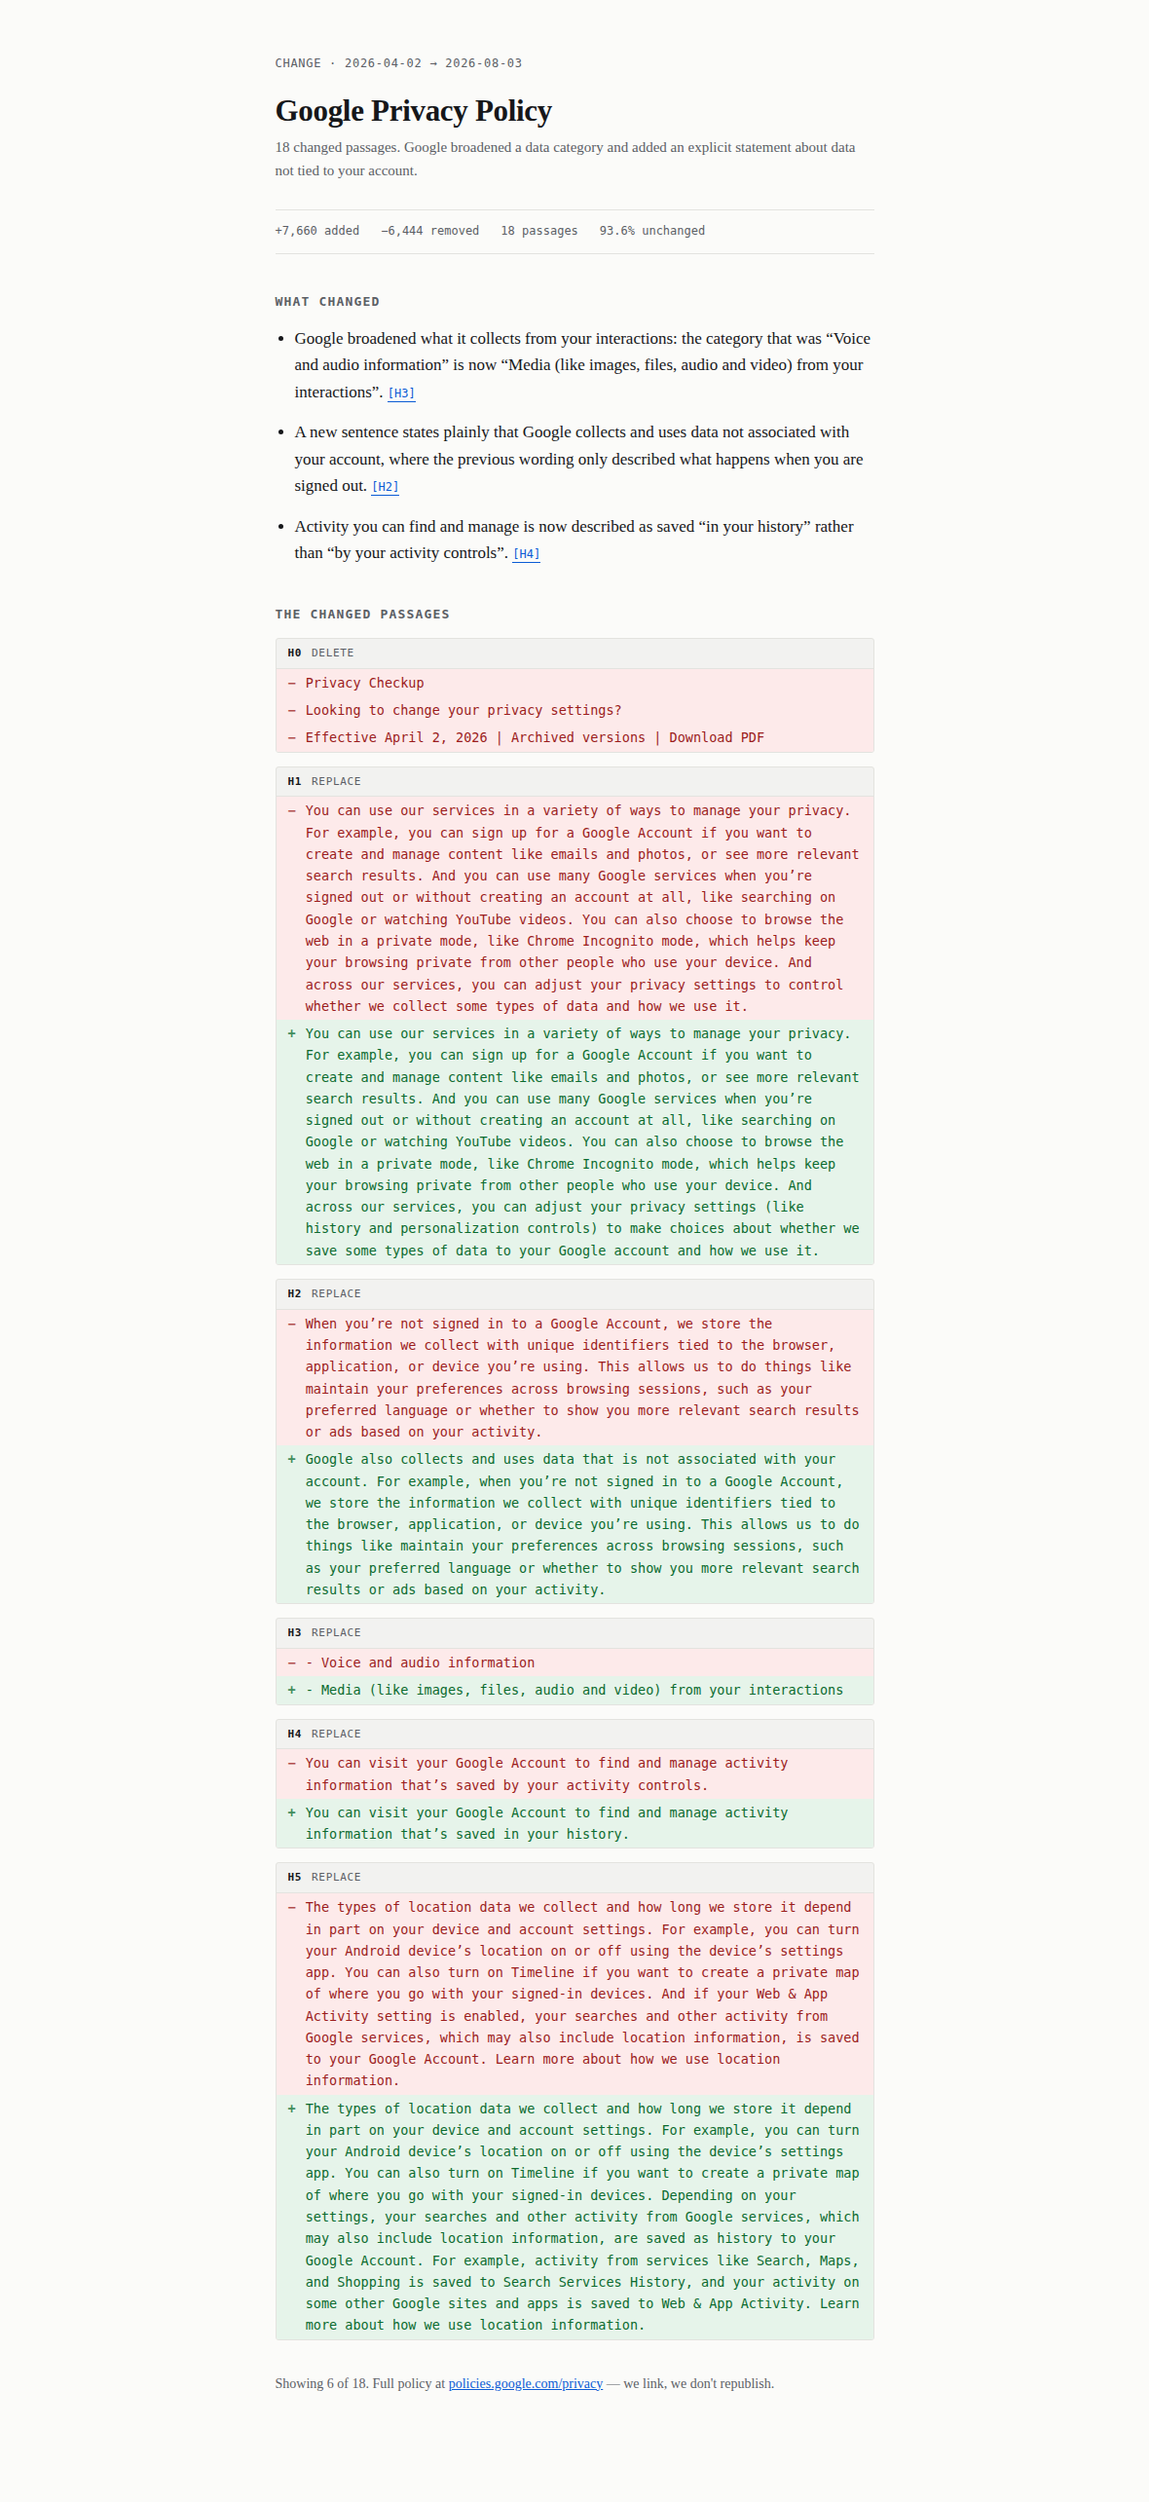
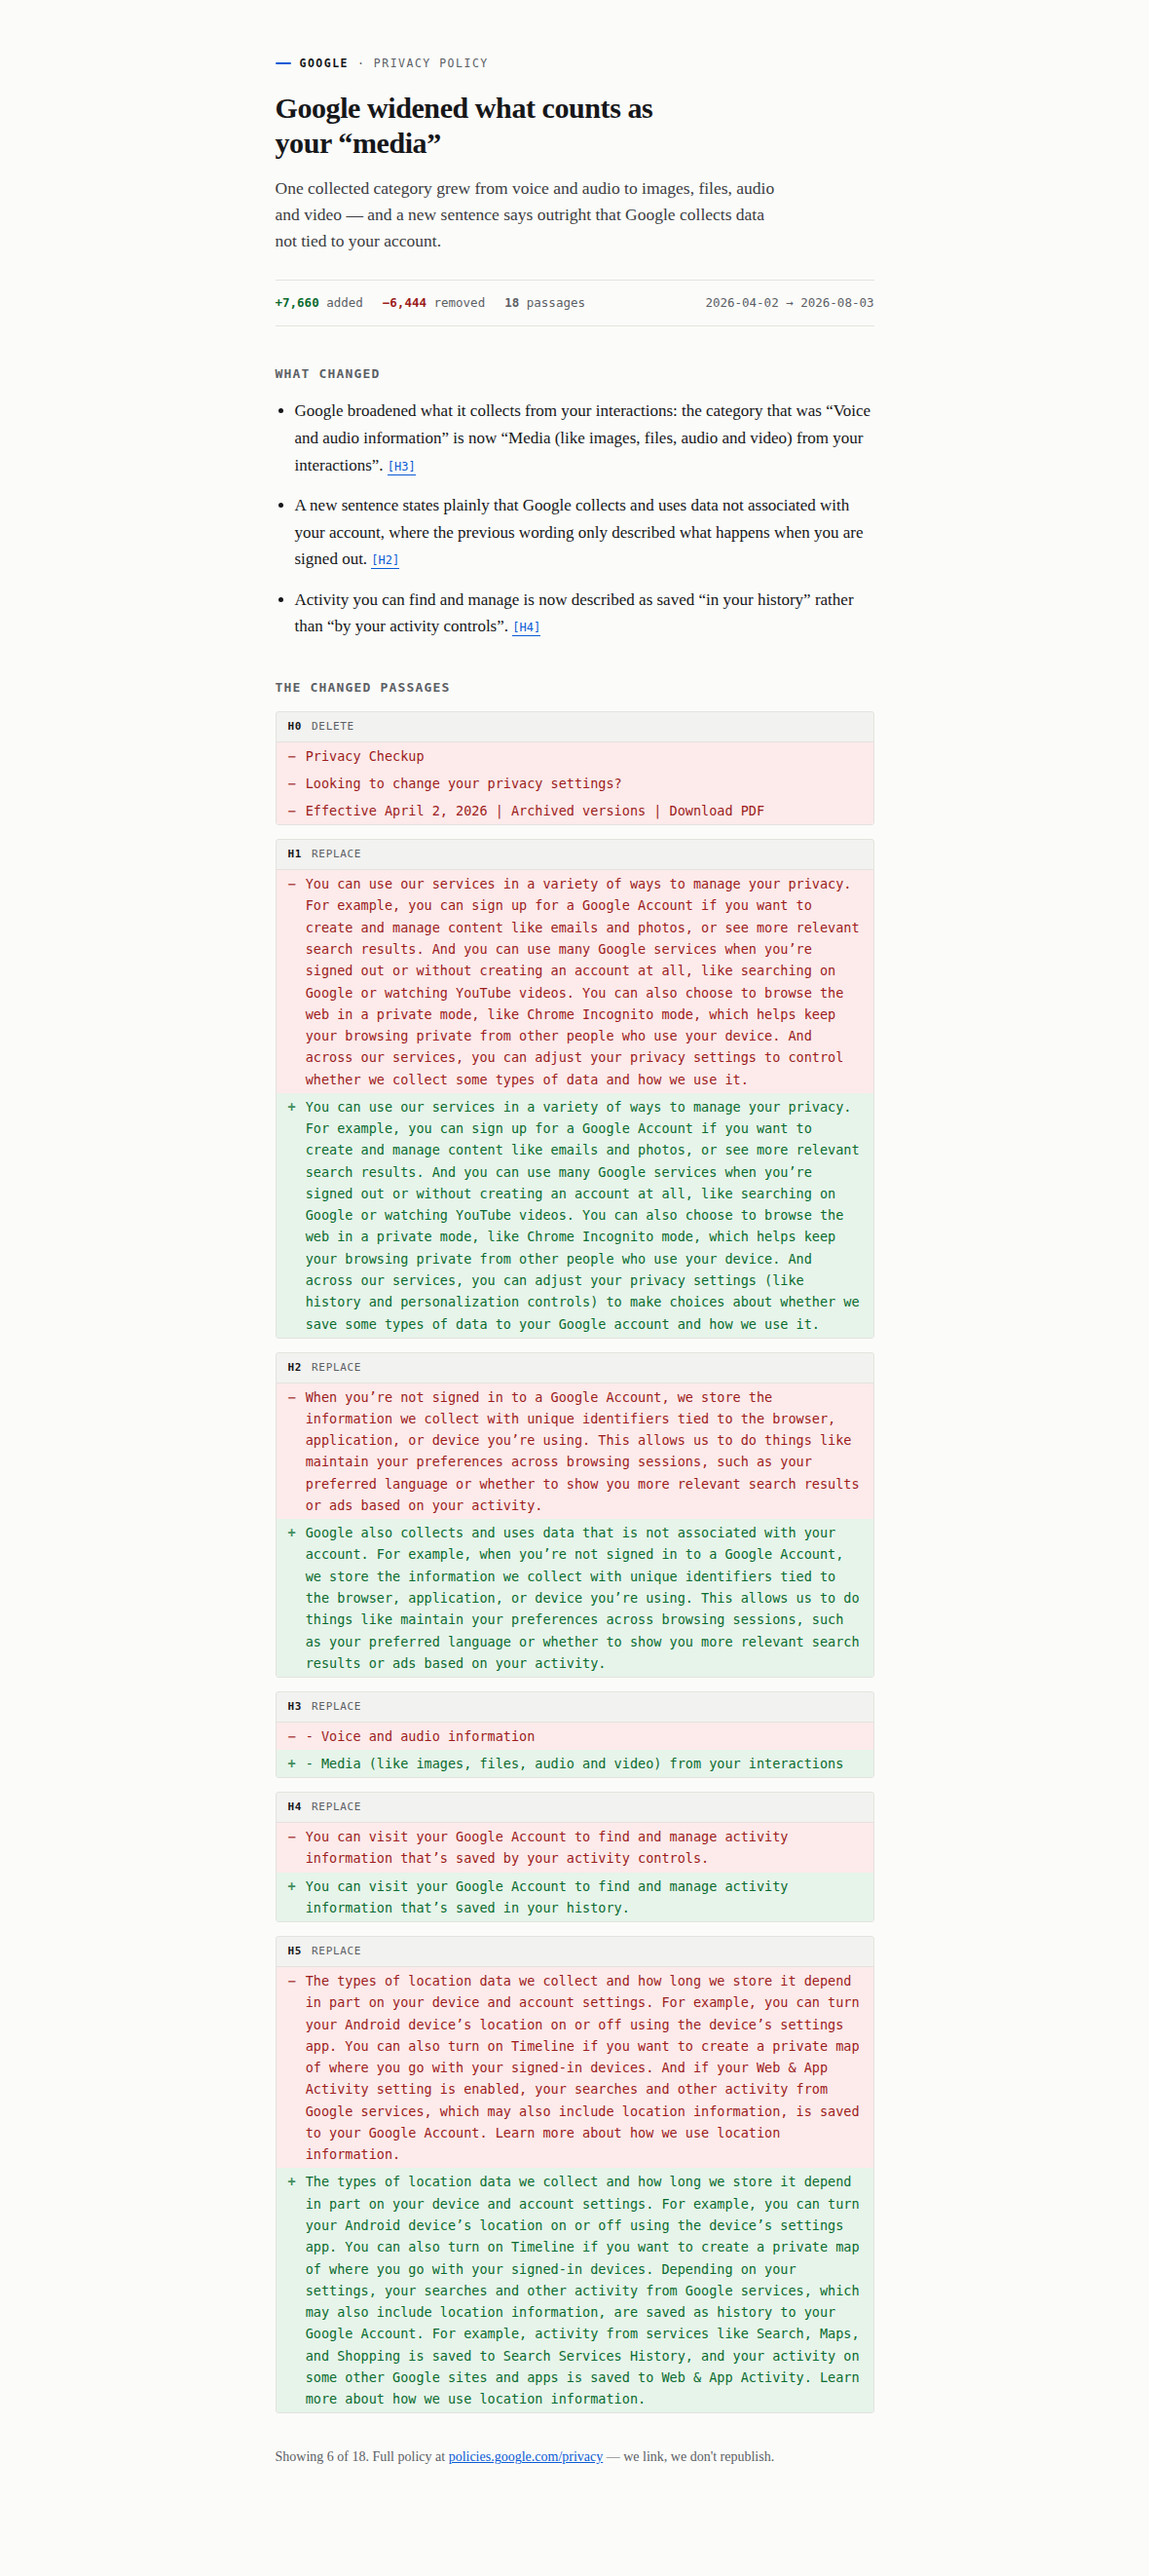
Choose direction A, lift its header toward editorial
Owner picked A - reference instrument - for its brevity and low noise, with
one note: the header felt sterile, and should move partway toward C's
editorial character. "If it were at a 1 or 2 right now make it a 3 or 4."

The body is unchanged. It is meant to be quiet; that is the whole point of
the direction. All the added life sits in the header:

- a claim-making headline in serif ("Google widened what counts as your
  media") in place of naming the document, which is the largest lever
  available and costs no visual noise at all
- an accent tick and the company set in ink against a muted document type
- a one-sentence lede at 17.5px in a softer ink rather than full muted
- colour-coded totals: added in green, removed in red, as requested, with
  the version span pushed to the right edge

The colour does not break A's governing rule that the accent belongs to
citations alone. Diff green and red are a separate semantic channel, so
using them for the totals reinforces the mapping between the header numbers
and the passages below rather than diluting the citation accent. Reusing the
citation blue for the stats is what would have broken it.

All four colours measured against both themes before use, since SPEC section
9 makes contrast a floor rather than a preference: added 6.42:1 light /
10.51:1 dark, removed 7.87 / 9.48, accent 5.78 / 7.85. Every one clears AA.

Also adds a 640px breakpoint - at narrow widths the headline drops to 25px
[…]

Changed region(s): [[0.2441, 0.0311, 0.7627, 0.9654]]

diff --git a/prototypes/a-docket.html b/prototypes/a-docket.html
@@ -9,24 +9,34 @@ body{margin:0}
 a{color:inherit}
 
 :root{
-  --paper:#fbfbf9; --ink:#16171a; --muted:#5c5f66; --rule:#e3e3df;
+  --paper:#fbfbf9; --ink:#16171a; --soft:#3b3d42; --muted:#5c5f66; --rule:#e3e3df;
   --accent:#0b5cd5; --add:#e6f4ea; --add-ink:#0b6b2f; --rm:#fdeaea; --rm-ink:#9b1c1c;
   --mono:ui-monospace,"SF Mono",Menlo,Consolas,monospace;
   --text:Charter,"Iowan Old Style","Source Serif 4",Georgia,serif;
 }
 @media (prefers-color-scheme:dark){:root{
-  --paper:#101114; --ink:#e9e9ea; --muted:#9a9da5; --rule:#26282e;
+  --paper:#101114; --ink:#e9e9ea; --soft:#c6c8cd; --muted:#9a9da5; --rule:#26282e;
   --accent:#6aa9ff; --add:#13301d; --add-ink:#7fd39b; --rm:#3a1618; --rm-ink:#f2a3a3;}}
 body{background:var(--paper);color:var(--ink);font-family:var(--text);
   font-size:17px;line-height:1.62;-webkit-font-smoothing:antialiased}
 .wrap{max-width:78ch;margin:0 auto;padding:56px 24px 96px}
-.crumb{font-family:var(--mono);font-size:12px;letter-spacing:.06em;
-  text-transform:uppercase;color:var(--muted);margin-bottom:20px}
-h1{font-size:31px;line-height:1.2;margin:0 0 6px;font-weight:600;letter-spacing:-.01em}
-.sub{color:var(--muted);font-size:15px;margin:0 0 28px}
-.meta{display:flex;gap:22px;flex-wrap:wrap;font-family:var(--mono);font-size:12px;
+
+/* header - the one place with a little more life */
+.kicker{display:flex;align-items:center;gap:9px;font-family:var(--mono);font-size:11.5px;
+  letter-spacing:.13em;text-transform:uppercase;color:var(--muted);margin-bottom:18px}
+.kicker .co{color:var(--ink);font-weight:700}
+.kicker .tick{width:16px;height:2px;background:var(--accent);border-radius:1px;flex:0 0 auto}
+h1{font-size:30px;line-height:1.22;margin:0 0 14px;font-weight:600;letter-spacing:-.014em;
+  max-width:26ch}
+.lede{color:var(--soft);font-size:17.5px;line-height:1.55;margin:0 0 26px;max-width:60ch}
+.meta{display:flex;gap:20px;flex-wrap:wrap;font-family:var(--mono);font-size:12.5px;
   color:var(--muted);border-top:1px solid var(--rule);border-bottom:1px solid var(--rule);
-  padding:12px 0;margin-bottom:34px}
+  padding:13px 0;margin-bottom:36px;align-items:baseline}
+.meta .n{font-weight:700}
+.meta .plus .n{color:var(--add-ink)}
+.meta .minus .n{color:var(--rm-ink)}
+.meta .span{margin-left:auto;color:var(--muted)}
+
 h2{font-size:13px;font-family:var(--mono);letter-spacing:.09em;text-transform:uppercase;
   color:var(--muted);font-weight:600;margin:38px 0 14px}
 ul.sum{margin:0;padding-left:20px}
@@ -50,19 +60,22 @@ ul.sum li{margin-bottom:14px}
 .tx{flex:1;min-width:0}
 .src{margin-top:34px;font-size:14px;color:var(--muted)}
 .src a{color:var(--accent)}
+@media (max-width:640px){h1{font-size:25px}.lede{font-size:16.5px}.meta .span{margin-left:0;width:100%}}
 @media (prefers-reduced-motion:reduce){*{animation:none!important;transition:none!important}}
 @media print{.hunk{break-inside:avoid}body{background:#fff;color:#000}}
 </style>
 </head><body><div class="wrap">
-<div class="crumb">Change · 2026-04-02 → 2026-08-03</div>
-<h1>Google Privacy Policy</h1>
-<p class="sub">18 changed passages. Google broadened a data category and added
-an explicit statement about data not tied to your account.</p>
+<div class="kicker"><span class="tick"></span><span class="co">Google</span>
+  <span>· Privacy Policy</span></div>
+<h1>Google widened what counts as your &ldquo;media&rdquo;</h1>
+<p class="lede">One collected category grew from voice and audio to images, files,
+audio and video &mdash; and a new sentence says outright that Google collects data
+not tied to your account.</p>
 <div class="meta">
-  <span>+7,660 added</span>
-  <span>−6,444 removed</span>
-  <span>18 passages</span>
-  <span>93.6% unchanged</span>
+  <span class="plus"><span class="n">+7,660</span> added</span>
+  <span class="minus"><span class="n">&minus;6,444</span> removed</span>
+  <span><span class="n">18</span> passages</span>
+  <span class="span">2026-04-02 &rarr; 2026-08-03</span>
 </div>
 <h2>What changed</h2>
 <ul class="sum"><li>Google broadened what it collects from your interactions: the category that was “Voice and audio information” is now “Media (like images, files, audio and video) from your interactions”. <a class="cit" href="#h3" title="Jump to the changed passage">[H3]</a></li>
@@ -83,5 +96,5 @@ an explicit statement about data not tied to your account.</p>
 <section class="hunk" id="h5"><div class="hh"><span class="hid">H5</span><span class="hkind">replace</span></div><div class="hb"><div class="ln rm"><span class="mk" aria-hidden="true">−</span><span class="sr">Removed:</span> <span class="tx">The types of location data we collect and how long we store it depend in part on your device and account settings. For example, you can turn your Android device’s location on or off using the device’s settings app. You can also turn on Timeline if you want to create a private map of where you go with your signed-in devices. And if your Web &amp; App Activity setting is enabled, your searches and other activity from Google services, which may also include location information, is saved to your Google Account. Learn more about how we use location information.</span></div>
 <div class="ln ad"><span class="mk" aria-hidden="true">+</span><span class="sr">Added:</span> <span class="tx">The types of location data we collect and how long we store it depend in part on your device and account settings. For example, you can turn your Android device’s location on or off using the device’s settings app. You can also turn on Timeline if you want to create a private map of where you go with your signed-in devices. Depending on your settings, your searches and other activity from Google services, which may also include location information, are saved as history to your Google Account. For example, activity from services like Search, Maps, and Shopping is saved to Search Services History, and your activity on some other Google sites and apps is saved to Web &amp; App Activity. Learn more about how we use location information.</span></div></div></section>
 <p class="src">Showing 6 of 18. Full policy at
-<a href="https://policies.google.com/privacy">policies.google.com/privacy</a> — we link, we don't republish.</p>
+<a href="https://policies.google.com/privacy">policies.google.com/privacy</a> &mdash; we link, we don't republish.</p>
 </div></body></html>

diff --git a/prototypes/build.py b/prototypes/build.py
@@ -120,24 +120,34 @@ def page(title: str, css: str, body: str) -> str:
 
 CSS_A = """
 :root{
-  --paper:#fbfbf9; --ink:#16171a; --muted:#5c5f66; --rule:#e3e3df;
+  --paper:#fbfbf9; --ink:#16171a; --soft:#3b3d42; --muted:#5c5f66; --rule:#e3e3df;
   --accent:#0b5cd5; --add:#e6f4ea; --add-ink:#0b6b2f; --rm:#fdeaea; --rm-ink:#9b1c1c;
   --mono:ui-monospace,"SF Mono",Menlo,Consolas,monospace;
   --text:Charter,"Iowan Old Style","Source Serif 4",Georgia,serif;
 }
 @media (prefers-color-scheme:dark){:root{
-  --paper:#101114; --ink:#e9e9ea; --muted:#9a9da5; --rule:#26282e;
+  --paper:#101114; --ink:#e9e9ea; --soft:#c6c8cd; --muted:#9a9da5; --rule:#26282e;
   --accent:#6aa9ff; --add:#13301d; --add-ink:#7fd39b; --rm:#3a1618; --rm-ink:#f2a3a3;}}
 body{background:var(--paper);color:var(--ink);font-family:var(--text);
   font-size:17px;line-height:1.62;-webkit-font-smoothing:antialiased}
 .wrap{max-width:78ch;margin:0 auto;padding:56px 24px 96px}
-.crumb{font-family:var(--mono);font-size:12px;letter-spacing:.06em;
-  text-transform:uppercase;color:var(--muted);margin-bottom:20px}
-h1{font-size:31px;line-height:1.2;margin:0 0 6px;font-weight:600;letter-spacing:-.01em}
-.sub{color:var(--muted);font-size:15px;margin:0 0 28px}
-.meta{display:flex;gap:22px;flex-wrap:wrap;font-family:var(--mono);font-size:12px;
+
+/* header - the one place with a little more life */
+.kicker{display:flex;align-items:center;gap:9px;font-family:var(--mono);font-size:11.5px;
+  letter-spacing:.13em;text-transform:uppercase;color:var(--muted);margin-bottom:18px}
+.kicker .co{color:var(--ink);font-weight:700}
+.kicker .tick{width:16px;height:2px;background:var(--accent);border-radius:1px;flex:0 0 auto}
+h1{font-size:30px;line-height:1.22;margin:0 0 14px;font-weight:600;letter-spacing:-.014em;
+  max-width:26ch}
+.lede{color:var(--soft);font-size:17.5px;line-height:1.55;margin:0 0 26px;max-width:60ch}
+.meta{display:flex;gap:20px;flex-wrap:wrap;font-family:var(--mono);font-size:12.5px;
   color:var(--muted);border-top:1px solid var(--rule);border-bottom:1px solid var(--rule);
-  padding:12px 0;margin-bottom:34px}
+  padding:13px 0;margin-bottom:36px;align-items:baseline}
+.meta .n{font-weight:700}
+.meta .plus .n{color:var(--add-ink)}
+.meta .minus .n{color:var(--rm-ink)}
+.meta .span{margin-left:auto;color:var(--muted)}
+
 h2{font-size:13px;font-family:var(--mono);letter-spacing:.09em;text-transform:uppercase;
   color:var(--muted);font-weight:600;margin:38px 0 14px}
 ul.sum{margin:0;padding-left:20px}
@@ -161,27 +171,30 @@ ul.sum li{margin-bottom:14px}
 .tx{flex:1;min-width:0}
 .src{margin-top:34px;font-size:14px;color:var(--muted)}
 .src a{color:var(--accent)}
+@media (max-width:640px){h1{font-size:25px}.lede{font-size:16.5px}.meta .span{margin-left:0;width:100%}}
 @media (prefers-reduced-motion:reduce){*{animation:none!important;transition:none!important}}
 @media print{.hunk{break-inside:avoid}body{background:#fff;color:#000}}
 """
 
 BODY_A = f"""<div class="wrap">
-<div class="crumb">Change · {META["from_version"]} → {META["to_version"]}</div>
-<h1>{META["company"]} {META["doc"]}</h1>
-<p class="sub">18 changed passages. Google broadened a data category and added
-an explicit statement about data not tied to your account.</p>
+<div class="kicker"><span class="tick"></span><span class="co">{META["company"]}</span>
+  <span>· {META["doc"]}</span></div>
+<h1>Google widened what counts as your &ldquo;media&rdquo;</h1>
+<p class="lede">One collected category grew from voice and audio to images, files,
+audio and video &mdash; and a new sentence says outright that Google collects data
+not tied to your account.</p>
 <div class="meta">
-  <span>+{META["added_chars"]:,} added</span>
-  <span>−{META["removed_chars"]:,} removed</span>
-  <span>{META["hunks"]} passages</span>
-  <span>93.6% unchanged</span>
+  <span class="plus"><span class="n">+{META["added_chars"]:,}</span> added</span>
+  <span class="minus"><span class="n">&minus;{META["removed_chars"]:,}</span> removed</span>
+  <span><span class="n">{META["hunks"]}</span> passages</span>
+  <span class="span">{META["from_version"]} &rarr; {META["to_version"]}</span>
 </div>
 <h2>What changed</h2>
 <ul class="sum">{summary_html()}</ul>
 <h2>The changed passages</h2>
 {hunks_html(6)}
 <p class="src">Showing 6 of 18. Full policy at
-<a href="{META["source"]}">policies.google.com/privacy</a> — we link, we don't republish.</p>
+<a href="{META["source"]}">policies.google.com/privacy</a> &mdash; we link, we don't republish.</p>
 </div>"""
 
 

diff --git a/prototypes/README.md b/prototypes/README.md
@@ -1,5 +1,8 @@
 # Design prototypes
 
+> **Chosen: A — reference instrument**, with the header lifted partway toward C.
+> B and C are kept for the record, not for use.
+
 Three directions for the change view — the surface that matters, because it is
 where design and product logic are the same decision.
 
@@ -21,7 +24,7 @@ it collects data not associated with your account.
 
 | | Character | Comparables |
 |---|---|---|
-| **A** `a-docket.html` | Reference instrument. Serif prose, monospace diff, near-monochrome, accent reserved *entirely* for citations. | A court docket, a well-set legal document |
+| **A** `a-docket.html` ✅ | Reference instrument. Serif prose, monospace diff, near-monochrome, accent reserved *entirely* for citations. Header carries a claim-making headline and colour-coded stats. | A court docket, a well-set legal document |
 | **B** `b-commit.html` | The change as a commit. Mono throughout, dense, high information density, dark-first. | `git log`, a GitHub commit view |
 | **C** `c-editorial.html` | The change as a story, evidence beneath. Larger type, more air, a headline that makes a claim. | A newsroom explainer |
 
@@ -33,6 +36,24 @@ python prototypes/build.py
 
 Reads `sample-hunks.json` and writes the three HTML files. Open them directly —
 no server, no build step, no dependencies.
+
+## The header, specifically
+
+A's body is deliberately quiet; the header is the one place with more life. It
+carries an accent tick, the company set in ink against a muted document type, a
+headline that makes a claim rather than naming the document, a one-sentence lede,
+and colour-coded totals — added in green, removed in red.
+
+That colour does **not** break A's rule that the accent belongs to citations
+alone. Diff green and red are a separate semantic channel from the citation
+accent, so using them for the totals reinforces the mapping rather than diluting
+it. All four colours were measured against both themes before use:
+
+| | on light | on dark |
+|---|---|---|
+| added | 6.42:1 | 10.51:1 |
+| removed | 7.87:1 | 9.48:1 |
+| citation accent | 5.78:1 | 7.85:1 |
 
 ## What they share
 
